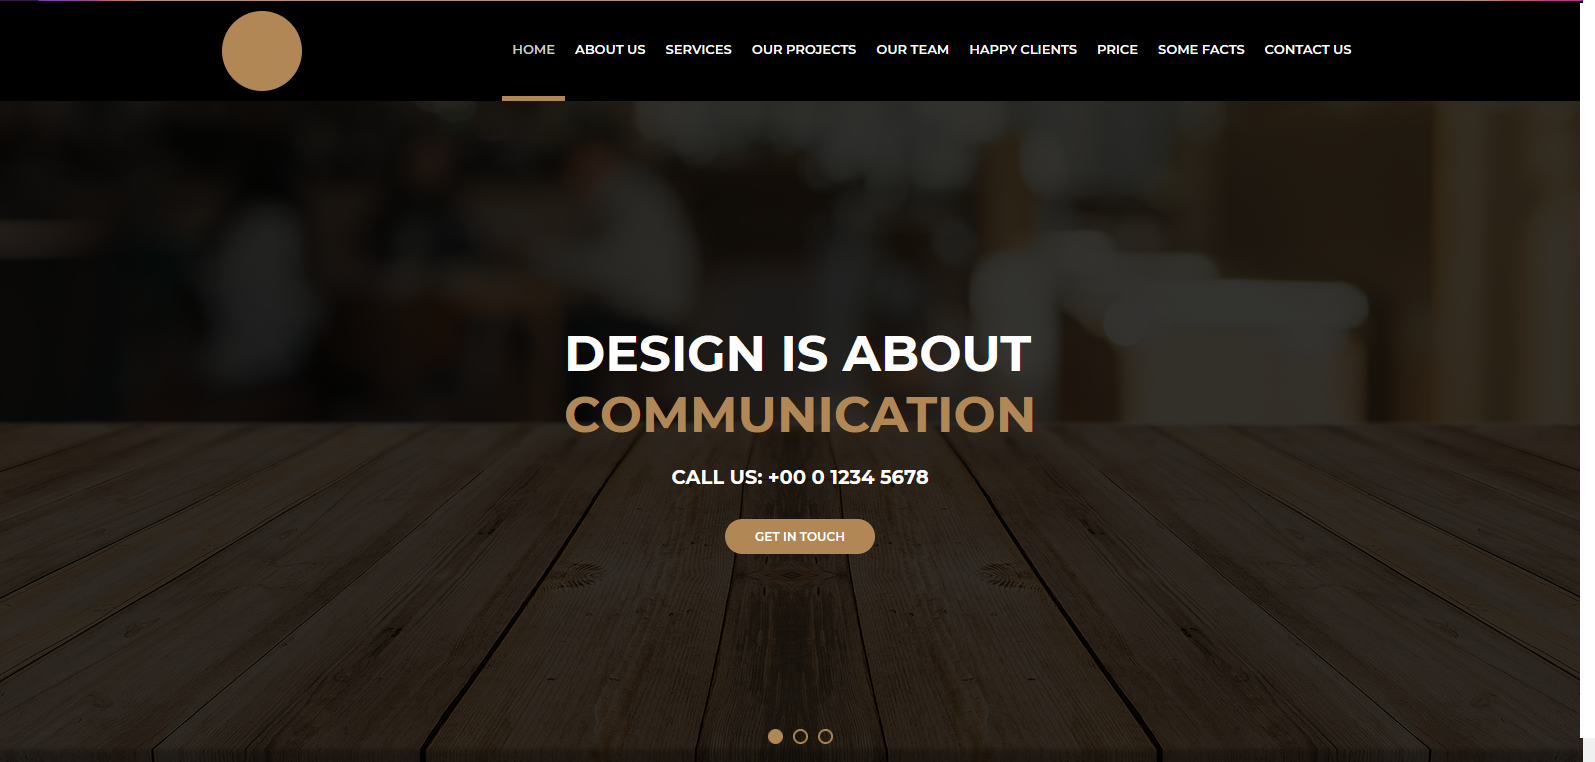
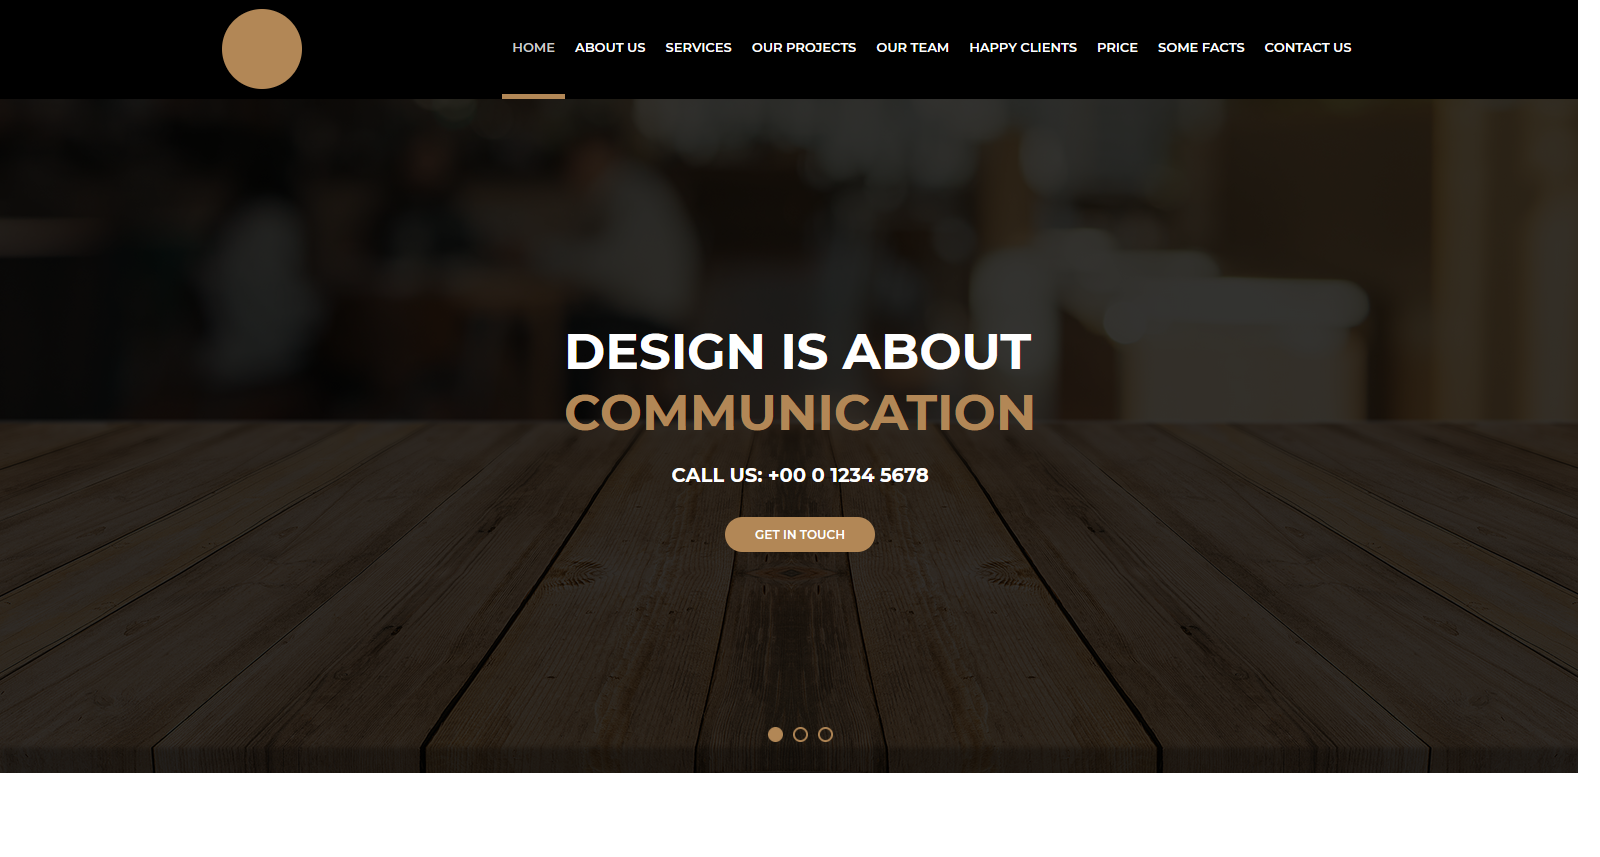
new att meu site 06/06

diff --git a/index.html b/index.html
@@ -1,5 +1,5 @@
 <!DOCTYPE html>
-<html lang="en">
+<html lang="pt-BR">
 <head>
     <meta charset="UTF-8">
     <meta http-equiv="X-UA-Compatible" content="IE=edge">
@@ -42,7 +42,7 @@
             <p>Alguns detalhes sobre mim.</p>
             <div class="about-img">
                 <div class="img-circle">
-                    <img src="assets/img/eumesmo.jpeg" alt="Cleyton Mendes">
+                    <img src="assets/img/eumesmo1.jpeg" title="Eu mesmo, Cleyton!" alt="Cleyton Mendes">
                 </div>
                 <div class="about-text">
                     <p>Do Rio de Janeiro, sou fascinado por Web Development. Atualmente estou muito focado em Javascript e aprender suas manhas mas em breve vou iniciar um intensivão em REACT e aprimorar minhas habilidades.</p>
@@ -58,26 +58,107 @@
                     <div class="project-info">
                         <h5>Site Awax</h5>
                         <p>Site feito em aula com HTML e CSS.</p>
+                        <div class="project-links">
+                            <a href="https://cleytonmendest.github.io/site-awax/" title="Visite o Site" target="_blank" rel = "noopener noreferrer"> <img src="assets/img/linkicon.png" alt="Site"></a>
+                            <a href="https://github.com/cleytonmendest/site-awax" title="Visite o repositório do projeto" target="_blank" rel="noopener noreferrer"><img src="assets/img/giticon.png" alt="GitHub"> </a>
+                        </div>
                     </div>
-                    <a href="https://cleytonmendest.github.io/site-awax/" target="_blank" rel = "noopener"><img src="assets/img/awax.png" alt="Site Awax"></a>
+                    <img src="assets/img/awax.png" alt="Site Awax">
                 </div>
-                <div class="project-item"></div>
-                <div class="project-item"></div>
-                <div class="project-item"></div>
-                <div class="project-item"></div>
-                <div class="project-item"></div>
-                <div class="project-item"></div>
-                <div class="project-item"></div>
+                <div class="project-item">
+                    <div class="project-info">
+                        <h5>Profile Card</h5>
+                        <p>Um profile card, desafio de front do site Front-End Mentor.</p>
+                        <div class="project-links">
+                            <a href="https://cleytonmendest.github.io/fem-profcardcomp/" title="Visite o Site" target="_blank" rel = "noopener noreferrer"> <img src="assets/img/linkicon.png" alt="Site"></a>
+                            <a href="https://github.com/cleytonmendest/fem-profcardcomp" title="Visite o repositório do projeto" target="_blank" rel="noopener noreferrer"><img src="assets/img/giticon.png" alt="GitHub"> </a>
+                        </div>
+                    </div>
+                    <img src="assets/img/profilecard.png" alt="Profile Card">
+                </div>
+                <div class="project-item">
+                    <div class="project-info">
+                        <h5>FAQ Card</h5>
+                        <p>Um FAQ card, desafio de front do site Front-End Mentor.</p>
+                        <div class="project-links">
+                            <a href="https://cleytonmendest.github.io/fem-faqaccordion-card/" title="Visite o Site" target="_blank" rel = "noopener noreferrer"> <img src="assets/img/linkicon.png" alt="Site"></a>
+                            <a href="https://github.com/cleytonmendest/fem-faqaccordion-card" title="Visite o repositório do projeto" target="_blank" rel="noopener noreferrer"><img src="assets/img/giticon.png" alt="GitHub"> </a>
+                        </div>
+                    </div>
+                    <img src="assets/img/faqcard.png" alt="FAQ Card">
+                </div>
+                <div class="project-item">
+                    <div class="project-info">
+                        <h5>Card Single Price</h5>
+                        <p>Um card single price, desafio de front do site Front-End Mentor.</p>
+                        <div class="project-links">
+                            <a href="https://cleytonmendest.github.io/fem-singleprice/" title="Visite o Site" target="_blank" rel = "noopener noreferrer"> <img src="assets/img/linkicon.png" alt="Site"></a>
+                            <a href="https://github.com/cleytonmendest/fem-singleprice" title="Visite o repositório do projeto" target="_blank" rel="noopener noreferrer"><img src="assets/img/giticon.png" alt="GitHub"> </a>
+                        </div>
+                    </div>
+                    <img src="assets/img/singleprice.png" alt="Single Price">
+                </div>
+                <div class="project-item">
+                    <div class="project-info">
+                        <h5>Site Starbucks</h5>
+                        <p>Site feito em aula com HTML e CSS.</p>
+                        <div class="project-links">
+                            <a href="https://cleytonmendest.github.io/starbucks/" title="Visite o Site" target="_blank" rel = "noopener noreferrer"> <img src="assets/img/linkicon.png" alt="Site"></a>
+                            <a href="https://github.com/cleytonmendest/starbucks" title="Visite o repositório do projeto" target="_blank" rel="noopener noreferrer"><img src="assets/img/giticon.png" alt="GitHub"> </a>
+                        </div>
+                    </div>
+                    <img src="assets/img/starbucks.png" alt="Site Starbucks">
+                </div>
+                <div class="project-item">
+                    <div class="project-info">
+                        <h5>Site Awax</h5>
+                        <p>Site feito em aula com HTML e CSS.</p>
+                        <div class="project-links">
+                            <a href="https://cleytonmendest.github.io/site-awax/" title="Visite o Site" target="_blank" rel = "noopener noreferrer"> <img src="assets/img/linkicon.png" alt="Site"></a>
+                            <a href="https://github.com/cleytonmendest/site-awax" title="Visite o repositório do projeto" target="_blank" rel="noopener noreferrer"><img src="assets/img/giticon.png" alt="GitHub"> </a>
+                        </div>
+                    </div>
+                    <img src="assets/img/awax.png" alt="Site Awax">
+                </div>
+                <div class="project-item">
+                    <div class="project-info">
+                        <h5>Site Awax</h5>
+                        <p>Site feito em aula com HTML e CSS.</p>
+                        <div class="project-links">
+                            <a href="https://cleytonmendest.github.io/site-awax/" title="Visite o Site" target="_blank" rel = "noopener noreferrer"> <img src="assets/img/linkicon.png" alt="Site"></a>
+                            <a href="https://github.com/cleytonmendest/site-awax" title="Visite o repositório do projeto" target="_blank" rel="noopener noreferrer"><img src="assets/img/giticon.png" alt="GitHub"> </a>
+                        </div>
+                    </div>
+                    <img src="assets/img/awax.png" alt="Site Awax">
+                </div>
+                <div class="project-item">
+                    <div class="project-info">
+                        <h5>Site Awax</h5>
+                        <p>Site feito em aula com HTML e CSS.</p>
+                        <div class="project-links">
+                            <a href="https://cleytonmendest.github.io/site-awax/" title="Visite o Site" target="_blank" rel = "noopener noreferrer"> <img src="assets/img/linkicon.png" alt="Site"></a>
+                            <a href="https://github.com/cleytonmendest/site-awax" title="Visite o repositório do projeto" target="_blank" rel="noopener noreferrer"><img src="assets/img/giticon.png" alt="GitHub"> </a>
+                        </div>
+                    </div>
+                    <img src="assets/img/awax.png" alt="Site Awax">
+                </div>
+            </div>
+            <div class="visit">
+                <a href="https://github.com/cleytonmendest" target="_blank" rel="noopener noreferrer"><button class="btn-git"type="button">Visite meu GitHub <img src="assets/img/giticon.png" alt="GITHUB"></button></a>
             </div>
         </section>
-
+        <section class="contact">
+            <div class="contact-area">
+                <h4>#Contato</h4>
+                <p>Onde me encontrar</p>
+                <div class="contact-info">
+                    <a href="https://api.whatsapp.com/send?phone=5521974219271&text=Olá, vi seu site!" target="_blank" rel="noopener noreferrer"><button class="btn-zap">Mande Mensagem no Zap! <img src="assets/img/iconwhats.webp" alt="WhatsApp"></button></a>
+                </div>
+            </div>
+        </section>
     </main>
     <footer>
-        <section class="contato">
-
-        </section>
     </footer>
-    
 <script src="assets/js/script.js"></script>
 </body>
 </html>

diff --git a/assets/css/style.css b/assets/css/style.css
@@ -4,28 +4,46 @@
     --secondary-color: rgb(201, 224, 253);
     --backcolor: rgb(39, 39, 39);
 }
+@keyframes ring {
+    0% {
+      width: 30px;
+      height: 30px;
+      opacity: 1;
+    }
+    100% {
+      width: 300px;
+      height: 300px;
+      opacity: 0;
+    }
+  }
 *{
     padding: 0;
     margin: 0;
     box-sizing: border-box;
     font-family: 'Montserrat', sans-serif;
 }
+a{
+    text-decoration: none;
+}
 h4{
     text-align: center;
     padding-top: 30px;
     font-weight: 400;
     font-size: 30px;
+    text-shadow: 2px 2px 3px rgba(59, 59, 59, 0.7);
 }
 
 section p{
     text-align: center;
+    margin: 20px;
+    font-weight: 300;
 }
 header{
     width: 100vw;
     height: 70px;
     background-color: var(--secondary-color);
     position: fixed;
-    top: 20px;
+    top: 10px;
     display: flex;
     align-items: center;
     justify-content: center;
@@ -39,7 +57,6 @@ header{
 .logo a{
     color: var(--primary-color);
     font-size: 20px;
-    text-decoration: none;
     font-weight: 600;
     margin: 0 20px;
 }
@@ -57,7 +74,6 @@ header{
 }
 .list a{
     padding:25px 30px;
-    text-decoration: none;
     color: var(--primary-color);
 }
 .list a:hover{
@@ -85,30 +101,30 @@ header{
 }
 .text h1{
     text-shadow: 2px 2px rgba(59, 59, 59, 0.3);
-    font-size: 50px;
+    font-size: 4rem;
 }
 .text h3{
-    font-size: 35px;
+    font-size: 2rem;
     text-shadow: 2px 2px rgba(59, 59, 59, 0.3);
 }
 .about{
-    height: 600px;
     background-color: var(--backcolor);
 }
 .about h4{
     color: rgb(199,199,199);
 }
 .about p{
-    text-align: center;
     color: rgb(199, 199, 199);
 }
 .about-img{
+    width: 100vw;
     max-width: 1140px;
-    height: 450px;
     margin: auto;
     display: flex;
     align-items: center;
-    justify-content: space-evenly;
+    justify-content: center;
+    flex-wrap: wrap;
+    
 }
 .about-text p{
     color:rgb(199, 199, 199);
@@ -124,18 +140,20 @@ header{
     display: flex;
     align-items: center;
     border: 3px solid rgb(199, 199, 199);
+    margin: 50px;
 }
 .img-circle img{
     width: 300px;
 }
 .projects{
-    height: 600px;
     background-color: var(--secondary-color);
+    display: flex;
+    flex-direction: column;
+    align-items: center;
 }
 .projects-icons{
     width: 100vw;
     max-width: 1140px;
-    height: 500px ;
     display: flex;
     margin: auto;
     flex-wrap: wrap;
@@ -151,18 +169,12 @@ header{
     display: flex;
     justify-content: center;
     border-radius: 10px;
+    box-shadow: 5px 5px 8px rgba(59, 59, 59, 0.5);
 }
 .project-item img{
     width: 290px;
-    height: 170px;
-    transition: 1s;
+    height: 190px;
 }
-.project-item:hover .project-info{
-    background-color: rgba(0, 0, 0, 0.9);
-    color: rgba(255, 255, 255, 0.9);
-}
-
-
 .project-info{
     display: flex;
     justify-content: center;
@@ -171,13 +183,103 @@ header{
     width: inherit;
     height: inherit;
     background-color: rgba(0, 0, 0, 0.0);
-    transition: 1s;
     border-radius: inherit;
     color: rgba(255, 255, 255, 0.0);
     flex-direction: column;
     padding: 20px;
+    visibility: hidden;
+    transition: 1s linear;
+    opacity: 0;
 }
-
+.project-info h5{
+    font-size: 19px;
+    font-weight: 600;
+    margin:10px;
+}
+.project-info p{
+    font-size: 13px;
+    margin:0;
+}
+.project-links img{
+    width: 25px;
+    height: 25px;
+    background-color: #fff;
+    border-radius: 50%;
+    border: 3px solid #fff;
+    margin: 10px;
+}
+.project-item:hover .project-info{
+    visibility: visible;
+    background-color: rgba(0, 0, 0, 0.9);
+    color: rgba(255, 255, 255, 0.9);
+    opacity: 1;
+}
+.project-info:focus{
+    visibility: visible;
+    background-color: rgba(0, 0, 0, 0.9);
+    color: rgba(255, 255, 255, 0.9);
+    opacity: 1;
+}
+.visit{
+    margin:30px;
+}
+.btn-git{
+    padding: 15px 30px;
+    cursor: pointer;
+    border-radius: 30px;
+    border: none;
+    font-size: 16px;
+    background: linear-gradient(90deg, rgba(129,230,217,1) 0%, rgba(79,209,197,1) 100%);
+    box-shadow: 12px 12px 24px rgba(46, 122, 115, 0.64);
+    transition: all 0.3s ease-in-out 0s;
+    color: #313133;
+}
+.btn-git img{
+    width: 20px;
+    height: 20px;
+}
+.btn-git:hover, .btn-git:focus{
+    transform: translateY(-6px);
+}
+.contact{
+    background-color: var(--backcolor);
+    display: flex;
+    flex-direction: column;
+    align-items: center;
+}
+.contact-info{
+    width: 100vw;
+    max-width: 1140px;
+}
+.contact-area h4{
+    color: rgb(199, 199, 199);
+}
+.contact-area p{
+    color: rgb(199, 199, 199);
+}
+.contact-info{
+    display: flex;
+    justify-content: center;
+    align-items: center;
+}
+.btn-zap{
+    padding: 15px 30px;
+    cursor: pointer;
+    border-radius: 30px;
+    border: none;
+    font-size: 16px;
+    background: linear-gradient(90deg, rgba(129,230,217,1) 0%, rgba(79,209,197,1) 100%);
+    box-shadow: 12px 12px 24px rgba(46, 122, 115, 0.64);
+    transition: all 0.3s ease-in-out 0s;
+    color: #313133;
+}
+.btn-zap img{
+    width: 20px;
+    height: 20px;
+}
+.btn-zap:hover{
+    transform: translateY(-6px);
+}
 @media (max-width: 730px){
     .btn-mobile{
         display: flex;
